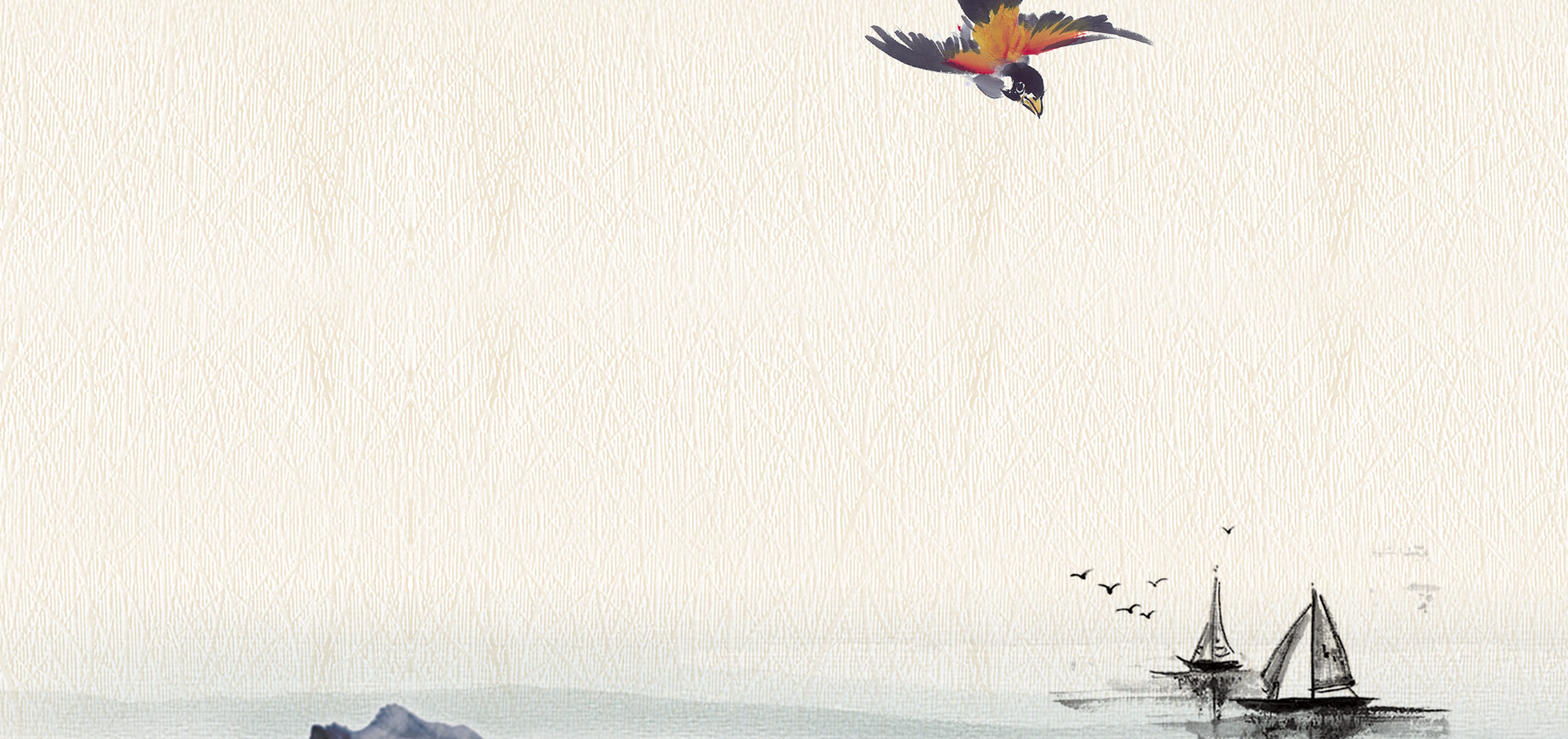
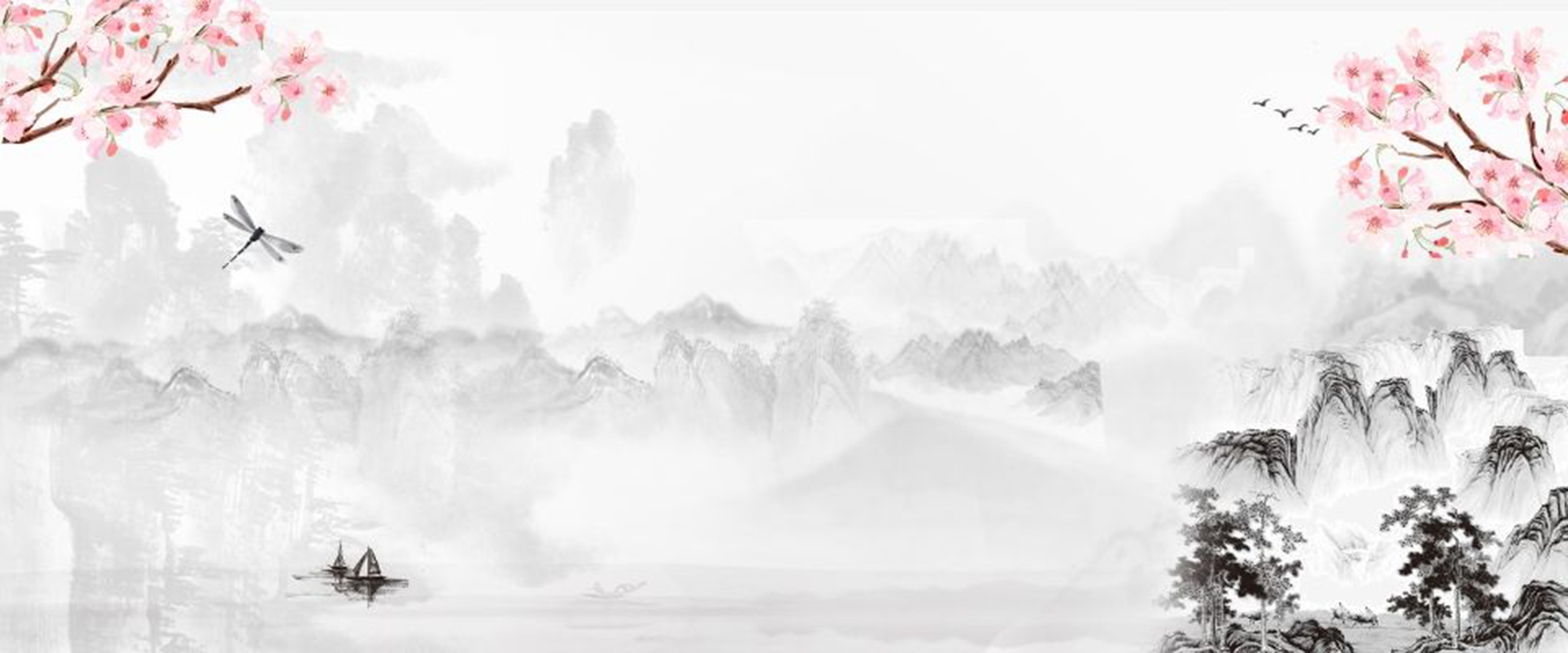
更换背景

diff --git a/1/niji/tp/templates/index.html b/1/niji/tp/templates/index.html
@@ -35,7 +35,7 @@
     <title>事理图谱古诗词学习工具</title>
 </head>
 
-<body background="/static/background2.png">
+<body background="/static/background.png">
 
     <!-- Logo -->
     <!-- <div class="logo">
